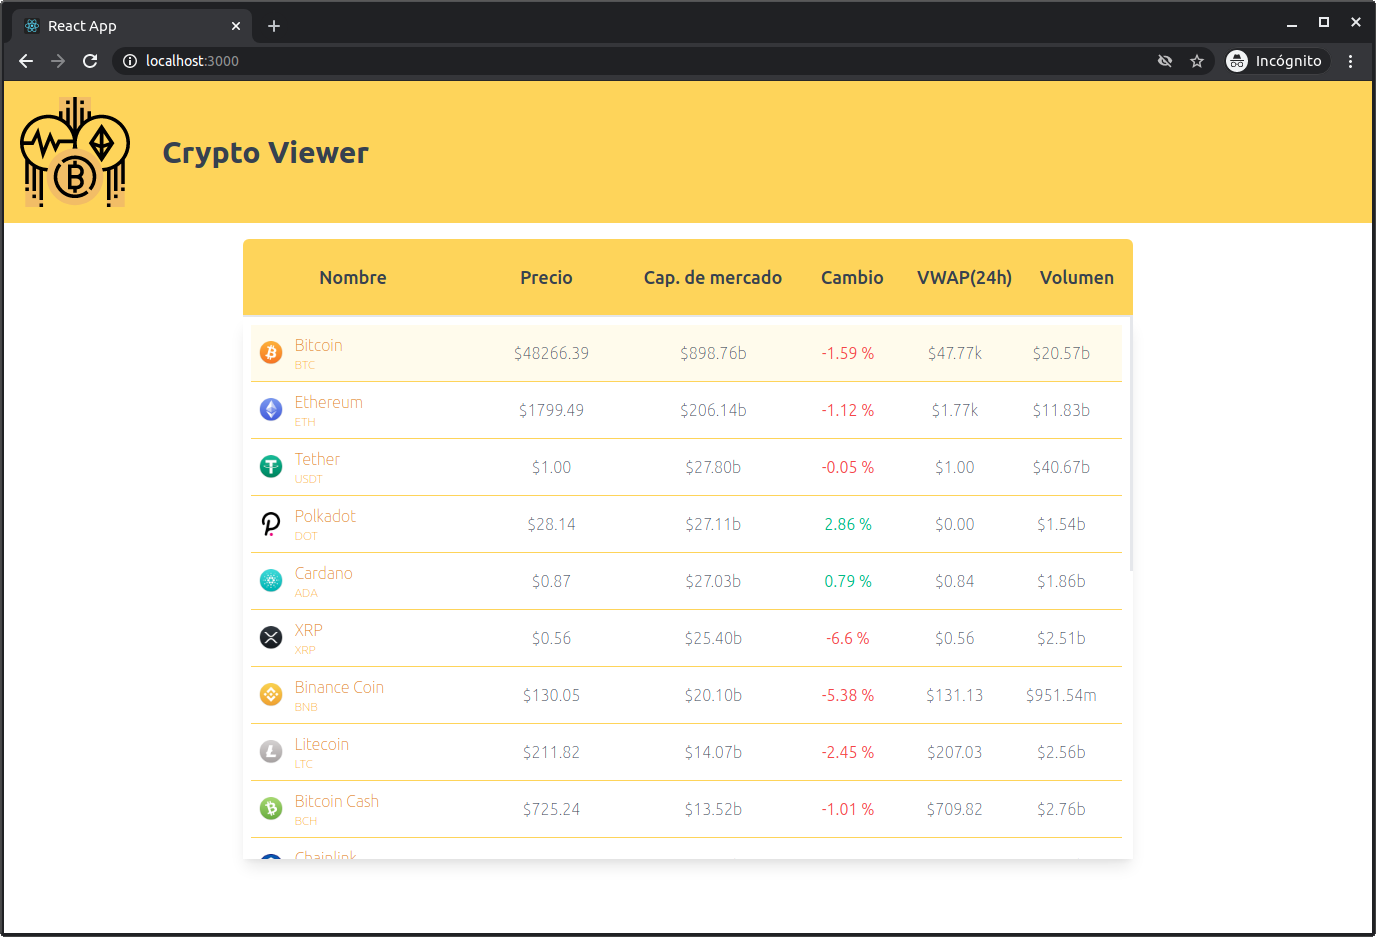
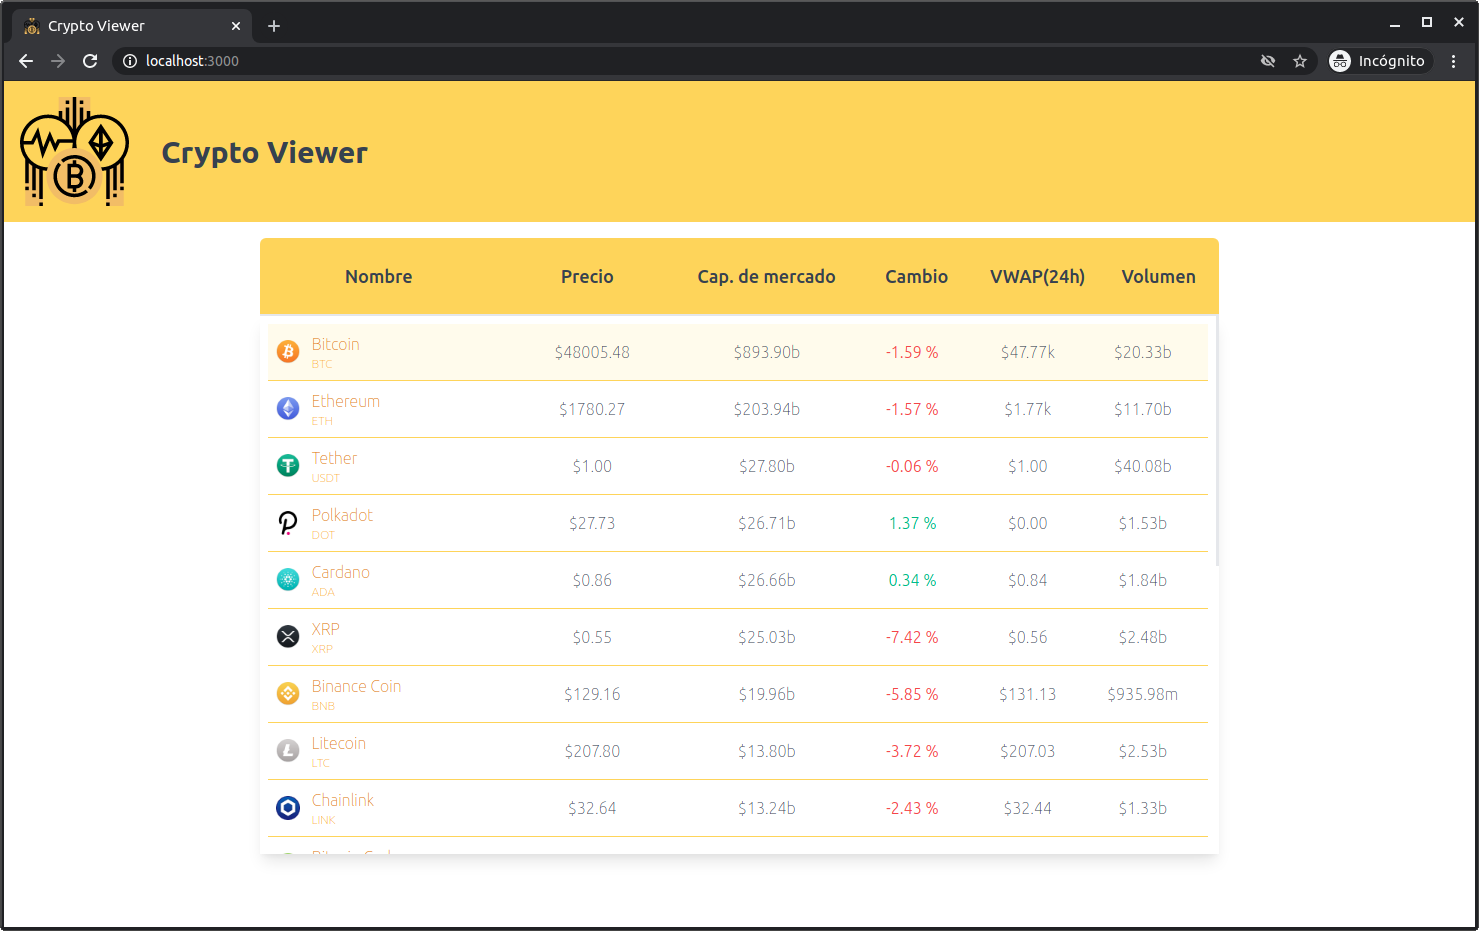
update README.md

diff --git a/src/hooks/useFetchData.js b/src/hooks/useFetchData.js
@@ -9,13 +9,14 @@ export const useFetchData = () => {
   });
 
   useEffect(() => {
-    getAssets().then((d) => {
-      setState({
-        data: d,
-        loading: false,
-        error: false,
+      console.log("h")
+      getAssets().then((d) => {
+        setState({
+          data: d,
+          loading: false,
+          error: false,
+        });
       });
-    });
   }, []);
 
   return state;

diff --git a/public/index.html b/public/index.html
@@ -24,7 +24,7 @@
       work correctly both with client-side routing and a non-root public URL.
       Learn how to configure a non-root public URL by running `npm run build`.
     -->
-    <title>React App</title>
+    <title>Crypto Viewer</title>
   </head>
   <body>
     <noscript>You need to enable JavaScript to run this app.</noscript>

diff --git a/README.md b/README.md
@@ -3,7 +3,7 @@ Frontend para consumir la API gratuita proporcionada por [Coincap](https://coinc
 
 # Demo
 
-Si desea ver una demo de este proyecto, puedes visitar el siguiente [Link]().
+Si desea ver una demo de este proyecto, puedes visitar el siguiente [Link](https://reverent-lumiere-c10a59.netlify.app/).
 
 # Instalación y ejecución
 
